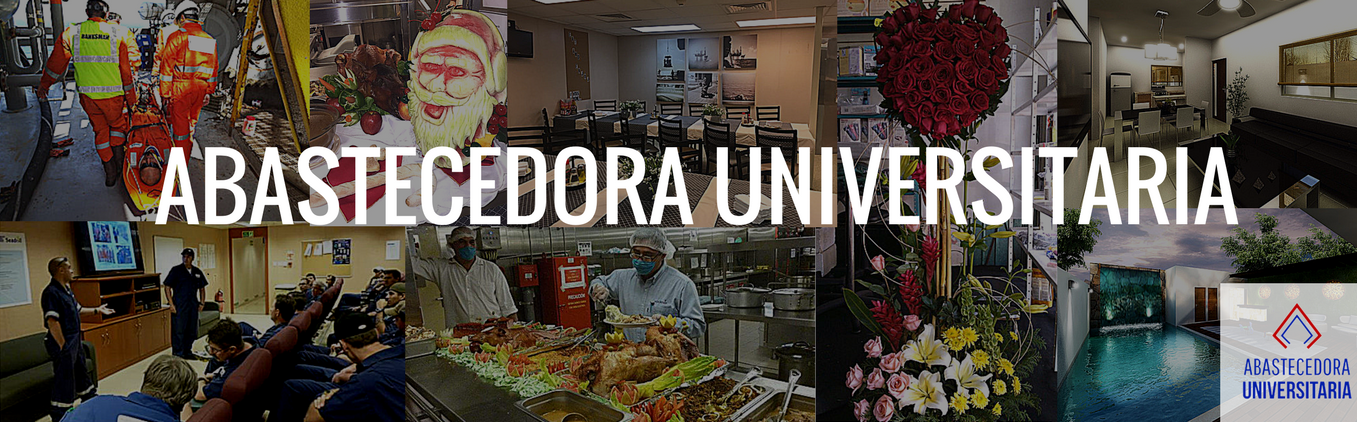
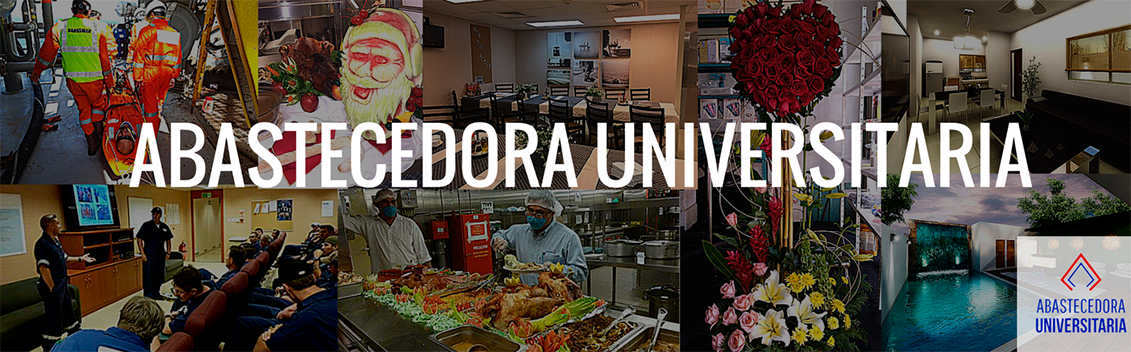
Agrego las imágenes en inglés

diff --git a/en/cursos.html b/en/cursos.html
@@ -24,25 +24,28 @@
     <div class="row align-right">
         <div class="column small-1">
             <a href="https://www.facebook.com/Abastecedorauniversitaria/" target="_blank">
-                <img class="icon" src="images/Facebook-icon.png">
+                <img class="icon" src="/images/Facebook-icon.png">
             </a>
         </div>
         <div class="column small-1">
-            <a href="index.html#contact">
-                <img class="icon" src="images/Mail-icon.png">
+            <a href="/en/index.html#contact">
+                <img class="icon" src="/images/Mail-icon.png">
             </a>
         </div>
         <div id="telnumber" class="column small-1">
-            <img class="icon" src="images/Phone-icon.png">
+            <img class="icon" src="/images/Phone-icon.png">
 
         </div>
         <span>9991729792</span>
-        <div class="spanish column small-1">
-            <span>Español</span>
+        <div class="spanish column  small-1">
+            <a class="unselected" href="/index.html">
+                <span>Español</span>
+            </a>
+
         </div>
-        <a class ="english unselected" href="/en/index.html">
+        <div class ="english">
             <span>English</span>
-        </a>
+        </div>
     </div>
 </section>
 <!-- /***************************CONTACTBAR******************************/-->

diff --git a/en/productos.html b/en/productos.html
@@ -37,12 +37,15 @@
 
         </div>
         <span>9991729792</span>
-        <div class="spanish column small-1">
-            <span>Español</span>
+        <div class="spanish column  small-1">
+            <a class="unselected" href="/index.html">
+                <span>Español</span>
+            </a>
+
         </div>
-        <a class ="english unselected" href="/en/index.html">
+        <div class ="english">
             <span>English</span>
-        </a>
+        </div>
     </div>
 </section>
 <!-- /***************************CONTACTBAR******************************/-->
@@ -92,7 +95,7 @@
 
 
 <section id="main-container" class="main">
-<img class ="barra" src="/images/Productos/productos.png">
+<img class ="barra" src="/images/Productos/encabezadoProductosINGLES.jpg">
     <div class="materials">
         <div class="materials_bar">
             <a class="materials_logo"></a>

diff --git a/en/servicios.html b/en/servicios.html
@@ -38,9 +38,10 @@
         </div>
         <span>9991729792</span>
         <div class="spanish column  small-1">
-            <a class="unselected" href="/servicios.html">
+            <a class="unselected" href="/index.html">
                 <span>Español</span>
             </a>
+
         </div>
         <div class ="english">
             <span>English</span>
@@ -93,7 +94,7 @@
 
 
 <section id="main-container" class="main">
-    <img class = "barra" src="/images/Servicios/servicios.jpg" alt="">
+    <img class = "barra" src="/images/Servicios/encabezadoSERVICIOS-INGLES.jpg" alt="">
 
     <div class="event_services">
         <div>

diff --git a/en/nosotros.html b/en/nosotros.html
@@ -38,7 +38,7 @@
         </div>
         <span>9991729792</span>
         <div class="spanish column  small-1">
-            <a class="unselected" href="/nosotros.html">
+            <a class="unselected" href="/index.html">
                 <span>Español</span>
             </a>
 
@@ -95,7 +95,7 @@
 
 
 <section id="main-container-us" class="main">
-<img class="barra" src="/images/Nosotros/QSEncabezado1.jpg">
+<img class="barra" src="/images/Nosotros/encabezadoINGLES.jpg">
     <div class="center-mission">
         <div class="mission">
             <h3 style="color: #005078">MISSION:</h3>
